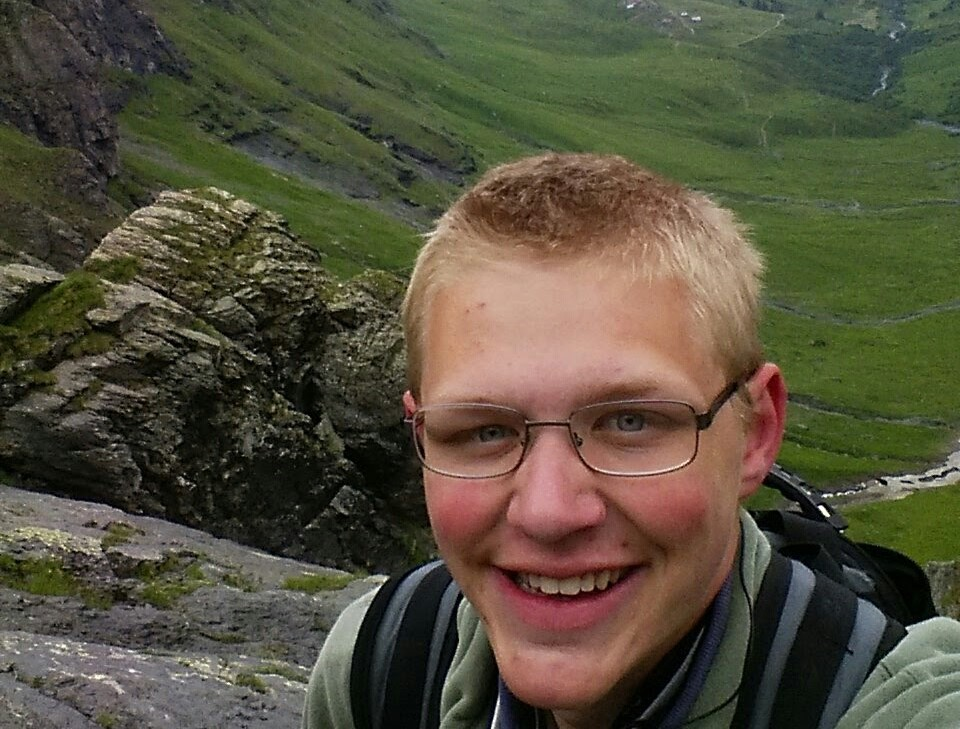
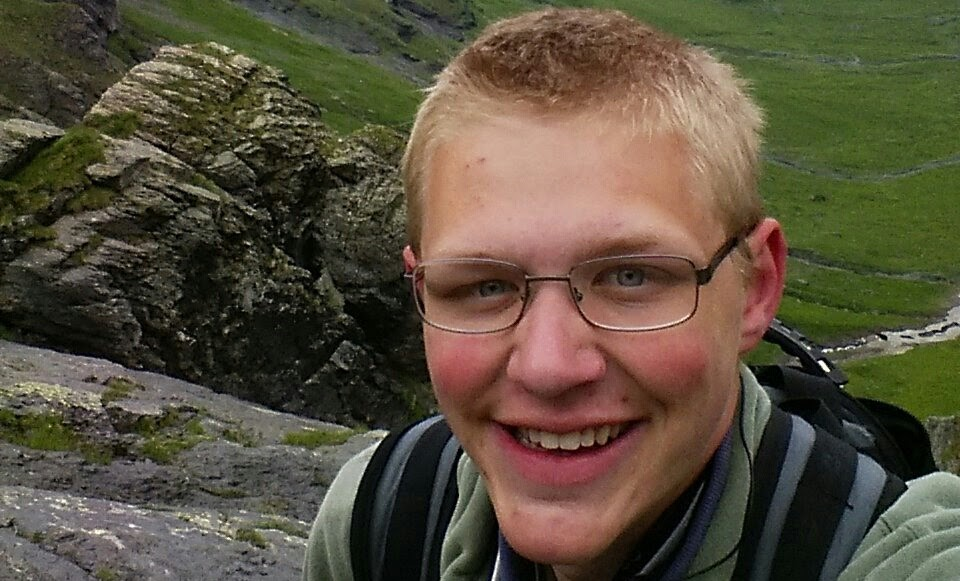
Adds Social Media
Adds information about my social media accounts

Currently need to figure out something better to do with the header.

diff --git a/index.html b/index.html
@@ -19,8 +19,25 @@
 
 
     <script>
+        function update_size() {
+            $('#right-card-top').css({'min-height' : $('#left-card-top').height() + 'px'});
+
+            var right_height = $('#right-card').height();
+            var left_height = $('#left-card').height();
+
+            if (left_height > right_height) {
+                $('#right-card').css({'height': left_height + 'px'});
+            } else {
+                $('#left-card').css({'height': right_height + 'px'});
+            }
+        }
+
         $(document).ready(function() {
             $(".button-collapse").sideNav();
+            update_size();
+        });
+        $(window).on('resize', function(){
+            update_size();
         });
     </script>
 </head>
@@ -28,17 +45,41 @@
 <PersonalSite-template>
     <div class="row">
         <div class="col s12 m6">
-            <div class="card">
+            <div class="card" id="left-card">
                 <div class="card-image">
-                    <img src="images/IsaacParkJune2015.jpg">
+                    <img src="images/IsaacParkJune2015.jpg" id="left-card-top">
                     <span class="card-title">About</span>
                 </div>
                 <div class="card-content">
                     <p>
-                        I'm a Junior at Kent State studying Computer Science with a concentration in Information Security.
-                        I'm intelligent and a hard worker. I'll be turning 19 this October. 
+                        I'm a student at Kent State currently getting my degree in Computer Science. I'm set to graduate
+                        in May 2017. I love to program and I'm really enjoying classes and personal projects.
+                        Someday I hope to work as a software developer and in the near future am looking for internships for Summer 2016
                     </p>
                 </div>
+            </div>
+        </div>
+
+        <div class="col s12 m6">
+                <div class="card" id="right-card">
+                    <div style="position:relative; background-color: #555533" id="right-card-top">
+                        <span class="card-title  pin-bottom" style="position:absolute; bottom:0; padding: 20px;">Social Media</span>
+                    </div>
+                    <div class="card-content">
+
+                        <a href="https://www.linkedin.com/pub/isaac-park/a3/280/a95" class="col s4 valign-wrapper">
+                            <img  border="0" class="responsive-img valign"  src="images/Linkedin.jpg" width="100%">
+                        </a>
+                        <a href="https://github.com/IAPark"  class="col s4 valign-wrapper">
+                            <img  border="0" class="responsive-img valign"  src="images/Github.png" width="100%">
+                        </a>
+                        <a href="https://www.facebook.com/isaac.a.park"  class="col s4 valign-wrapper">
+                            <img  border="0" class="responsive-img valign"  src="images/Facebook.png" width="100%">
+                        </a>
+
+                        <div class="center-align col 2"></div>
+                        <div class="center-align col 2"></div>
+                    </div>
             </div>
         </div>
 
